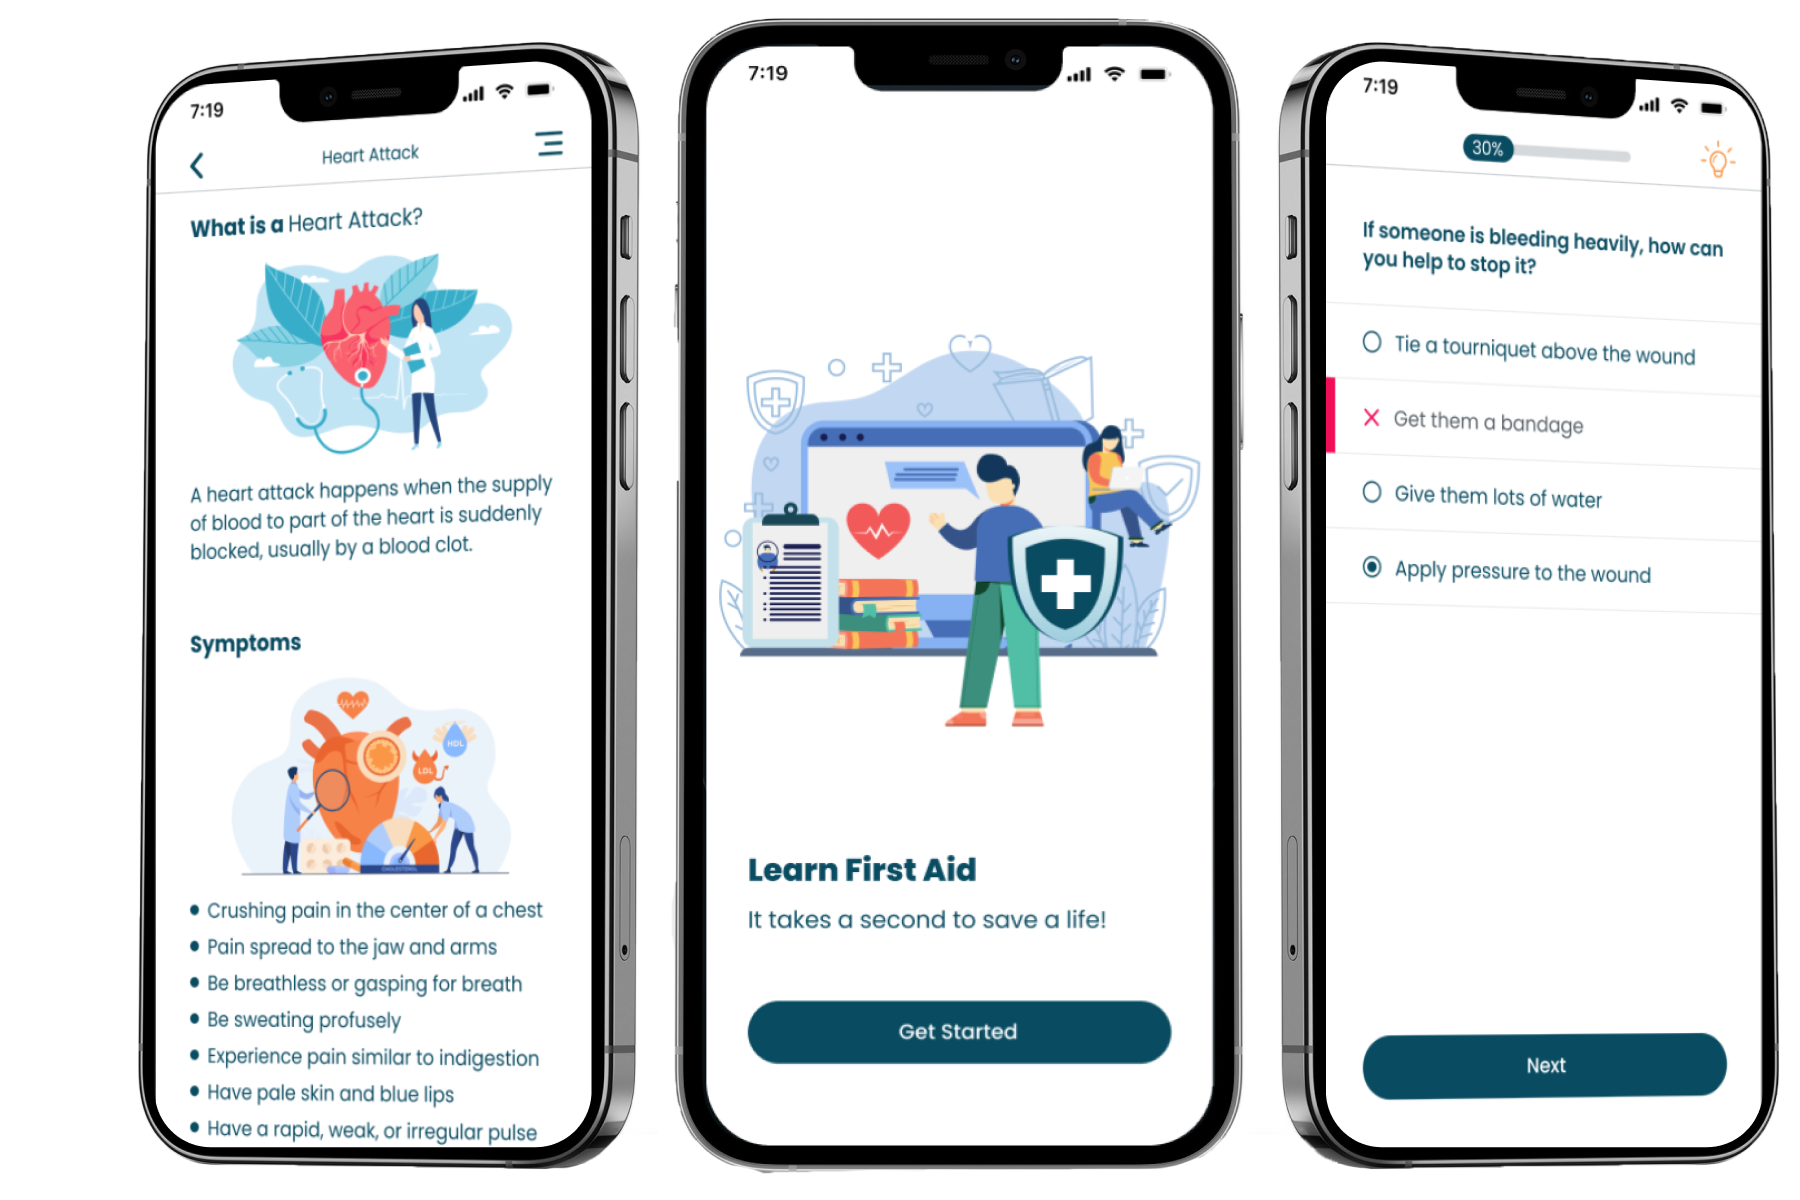
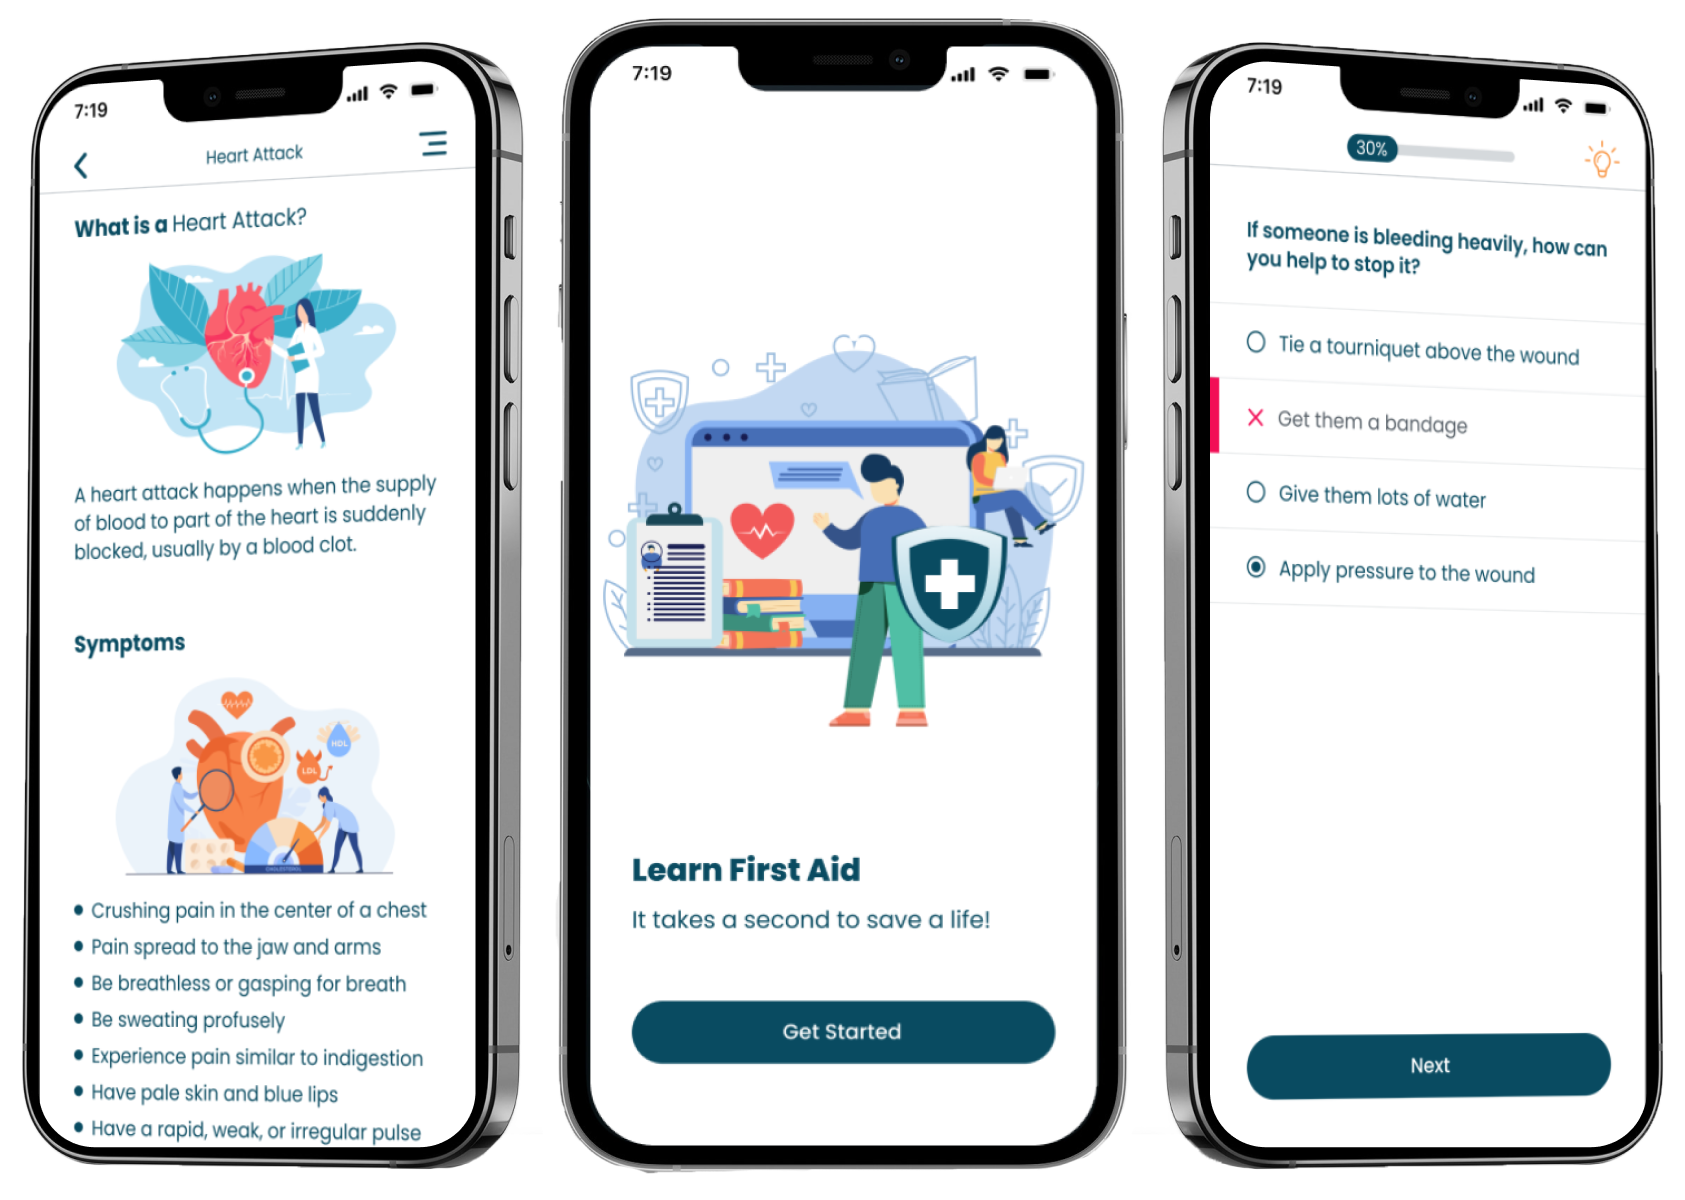
fix: hero images

diff --git a/components/Button.tsx b/components/Button.tsx
@@ -21,16 +21,16 @@ export const Button = ({
   useEffect(() => {
     switch (pathname) {
       case "/learn-first-aid-app":
-        setColor("bg-blue-200 hover:bg-blue-300");
+        setColor("bg-blue-200 hover:bg-blue-300 transition duration-300");
         break;
       case "/gluten-free-finder-app":
-        setColor("bg-green-200 hover:bg-green-300");
+        setColor("bg-green-200 hover:bg-green-300 transition duration-300");
         break;
       case "/reduce-food-waste-app":
-        setColor("bg-orange-200 hover:bg-orange-300");
+        setColor("bg-orange-200 hover:bg-orange-300 transition duration-300");
         break;
       case "/fashion-designer-portfolio":
-        setColor("bg-purple-200 hover:bg-purple-300");
+        setColor("bg-purple-200 hover:bg-purple-300 transition duration-300");
         break;
     }
   }, [pathname]);
@@ -38,13 +38,15 @@ export const Button = ({
   return (
     <button
       onClick={() => onClick()}
-      className={`"mb-24 py-3 px-6 rounded-lg ${color} ${className}`}
+      className={`mb-24 rounded-lg ${color} ${className}`}
     >
-      {label && (
-        <Text variant="body" className="text-gray-400">
-          {label}
-        </Text>
-      )}
+      <div className="flex transition py-3 px-6 duration-500 md:hover:scale-105">
+        {label && (
+          <Text variant="body" className="text-gray-400">
+            {label}
+          </Text>
+        )}
+      </div>
       {children}
     </button>
   );

diff --git a/components/ProjectHero.tsx b/components/ProjectHero.tsx
@@ -19,7 +19,7 @@ export const ProjectHero = ({
   buttonLabel,
 }: TProjectHero) => {
   return (
-    <div className="flex flex-grow md:flex-row flex-col-reverse md:mb-32">
+    <div className="flex flex-grow md:flex-row flex-col-reverse justify-between md:mb-32">
       <div className="flex flex-col md:justify-start md:items-start items-center">
         <Text variant="headline">{title}</Text>
         <Text variant="body" className="mt-2 mb-8 text-center md:text-start">
@@ -38,8 +38,8 @@ export const ProjectHero = ({
       <div className="md:justify-end items-center pb-8 ">
         <Image
           src={`/assets/${coverImage}.png`}
-          width={900}
-          height={500}
+          width={500}
+          height={300}
           alt="_"
         />
       </div>
